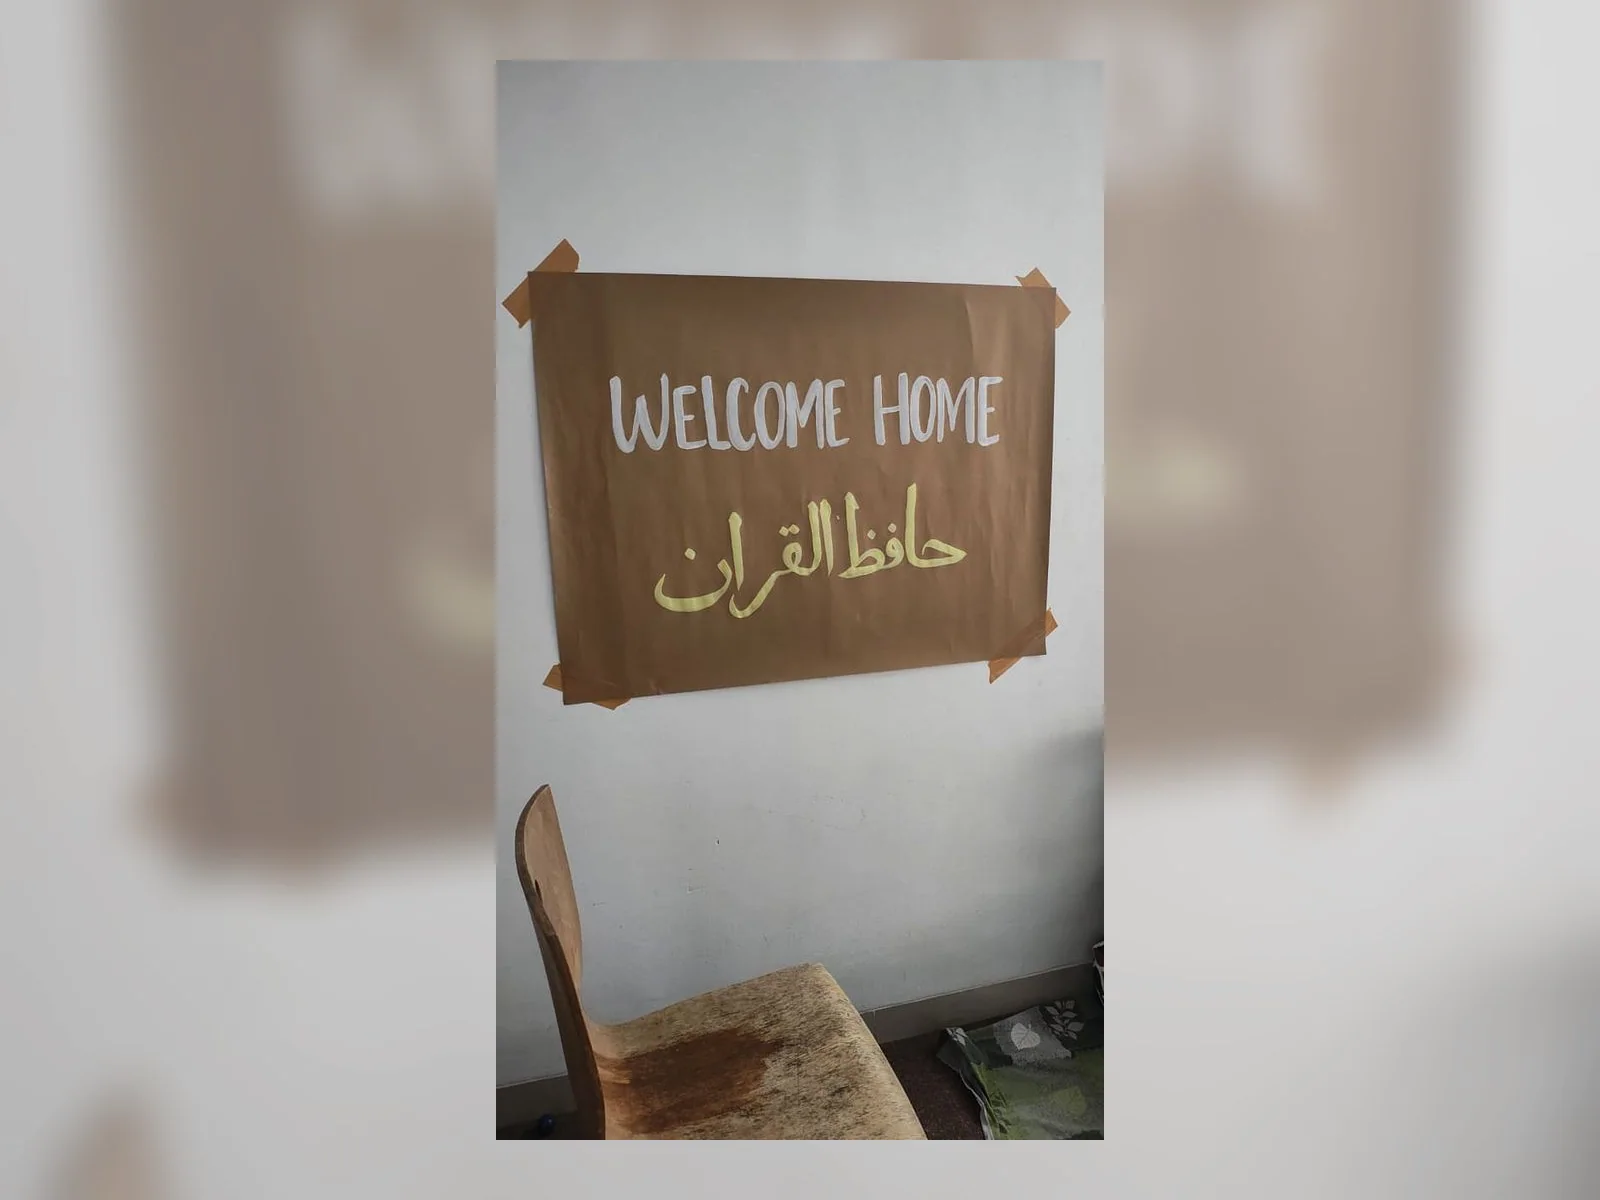
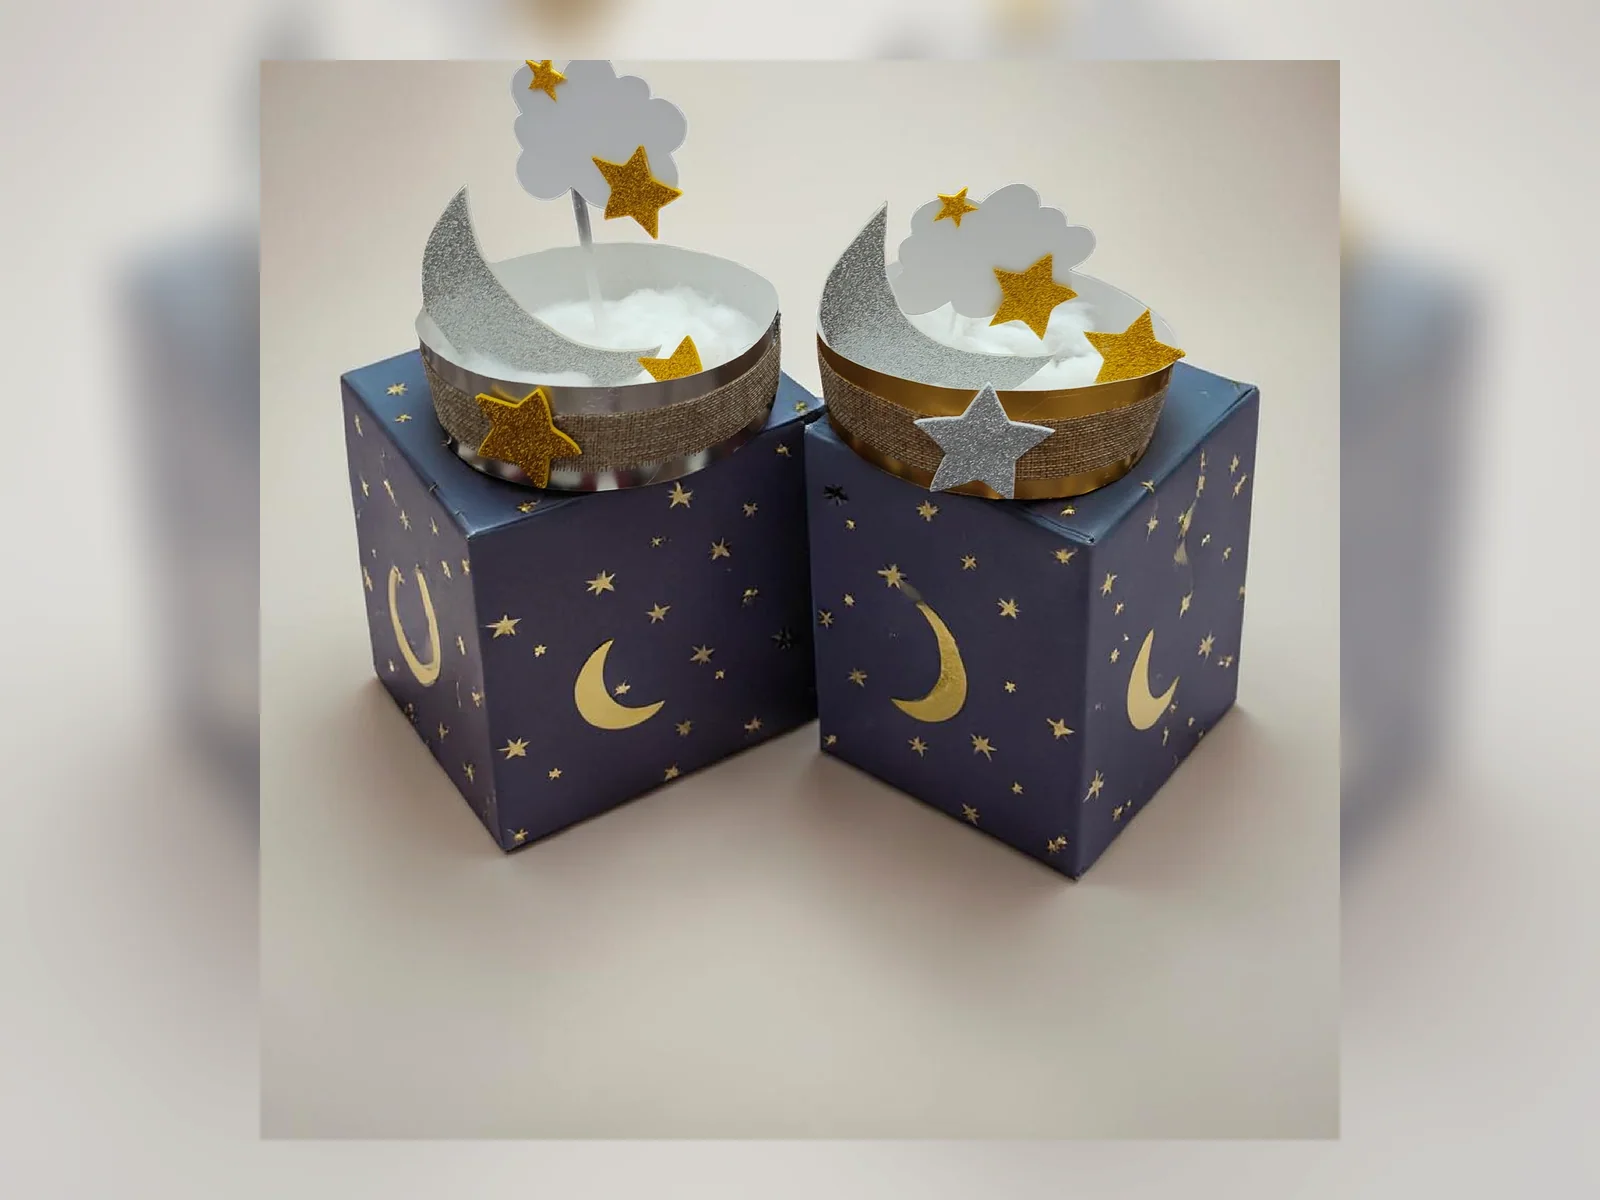
Update outline art and gift gallery

diff --git a/components/GalleryGrid.tsx b/components/GalleryGrid.tsx
@@ -39,7 +39,7 @@ const categoryReferenceCodes: Record<string, string> = {
   "texture-art": "TEX",
   mehendi: "MEH",
   "chenille-craft": "CHN",
-  embroidery: "EMB",
+  "outline-art": "OUT",
   "rida-design": "RDA",
   lamasa: "LAM",
   terrazzo: "TRZ",
